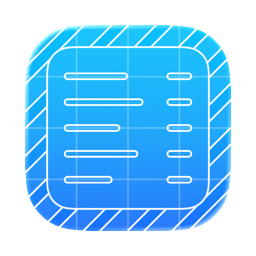
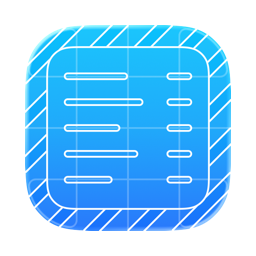
README: the layers-in-front example shows what blueprint draws now, with and without grid corners
The middle image showed the old output with the stripes crossing the sheet,
which blueprint no longer draws.

Claude-Session: https://claude.ai/code/session_018rg2Xg1h9Mmwd4QnyauMeW

diff --git a/README.md b/README.md
@@ -85,12 +85,12 @@ A layer without glass hides what's behind it, and so does its outline: the lines
 <p align="center">
   <img src="docs/icon-3.png" width="160" alt="An app icon with a striped frame behind a sheet">
   &nbsp;&nbsp;&nbsp;&nbsp;
-  <img src="docs/debug-icon-3-before.png" width="160" alt="Its blueprint with every outline drawn, the stripes crossing the sheet">
+  <img src="docs/debug-icon-3.png" width="160" alt="Its blueprint with the stripes stopping at the sheet">
   &nbsp;&nbsp;&nbsp;&nbsp;
-  <img src="docs/debug-icon-3.png" width="160" alt="Its blueprint with the stripes stopping at the sheet, without grid corners">
+  <img src="docs/debug-icon-3-no-corners.png" width="160" alt="Its blueprint without grid corners">
 </p>
 
-<p align="center"><sub>The icon, every outline drawn, and the sheet hiding the stripes behind it.</sub></p>
+<p align="center"><sub>The icon, its blueprint, and the blueprint with <code>--no-grid-corners</code>.</sub></p>
 
 ## Good to know
 
